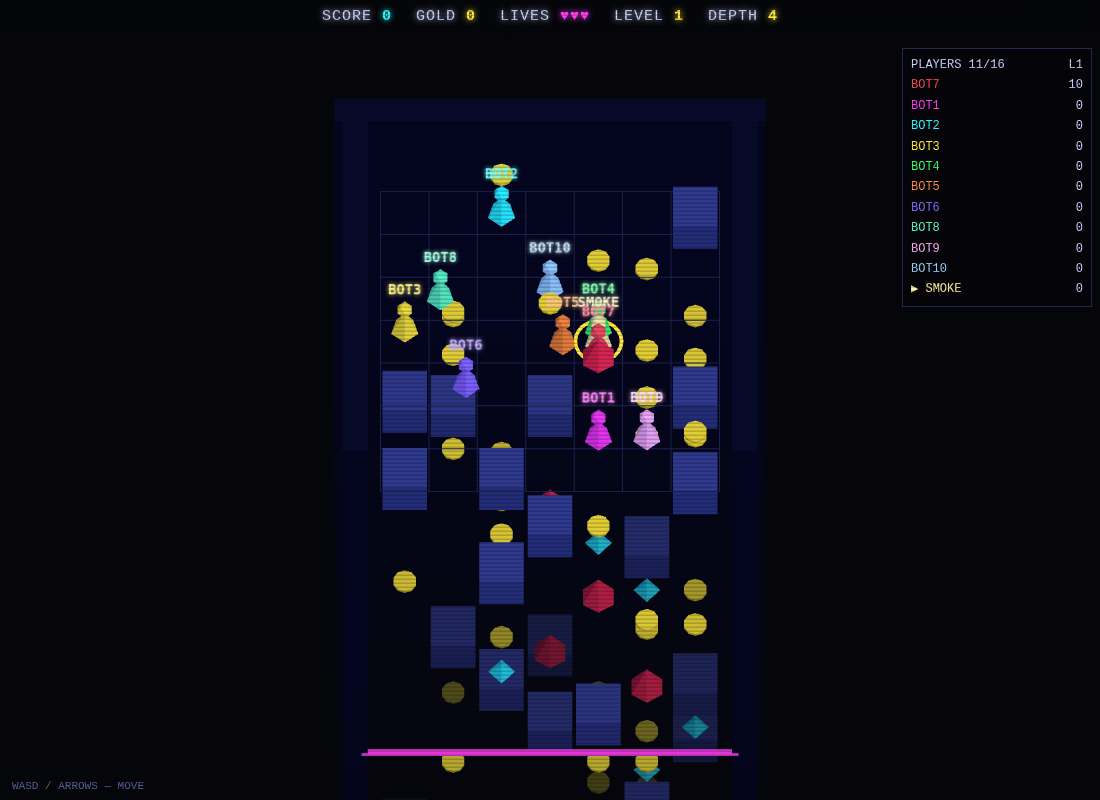
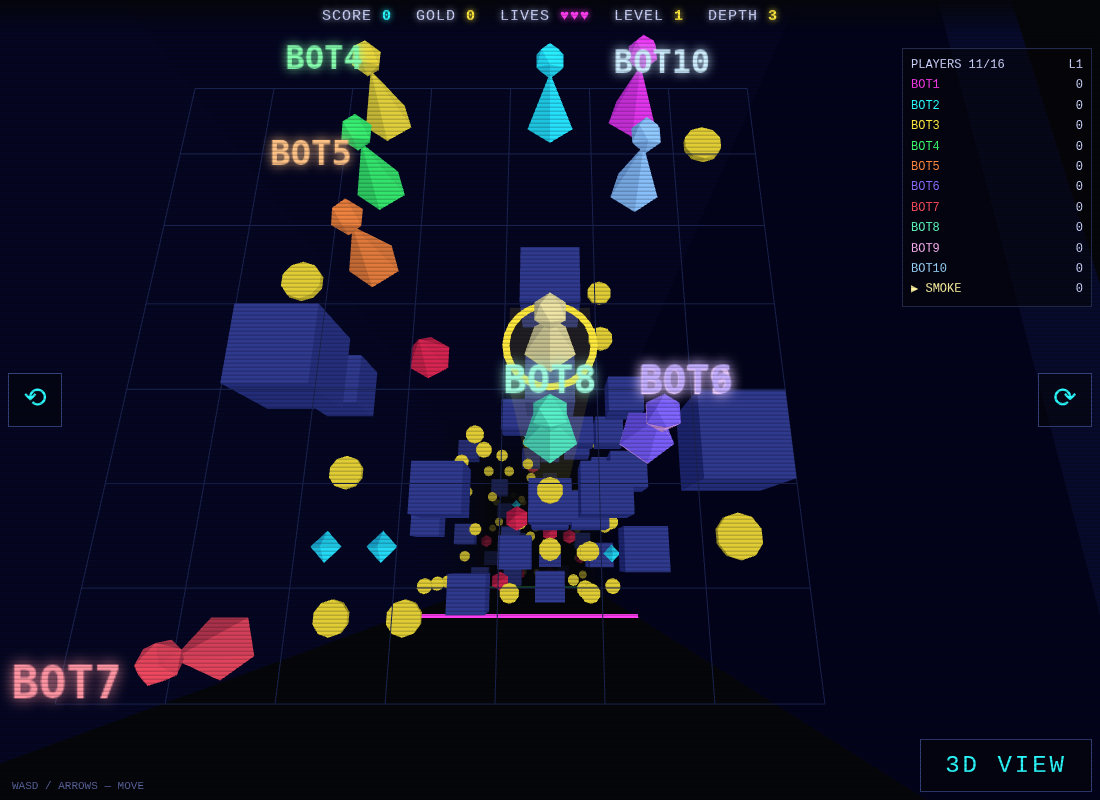
Refresh README screenshot to current chase-cam default view

diff --git a/README.md b/README.md
@@ -11,7 +11,7 @@ fairness rule, **you only score what you survive**.
 A low-poly three.js re-imagining of the classic falling-down-the-well /
 *Deep II*-style pit games.
 
-![Pitfall: Drop-Zone — eleven players falling through the neon pit](docs/screenshot.png)
+![Pitfall: Drop-Zone — chase cam view of eleven players falling through the neon pit, with the helper column marking your tile and view-rotation buttons on the edges](docs/screenshot.png)
 
 ## Features
 
